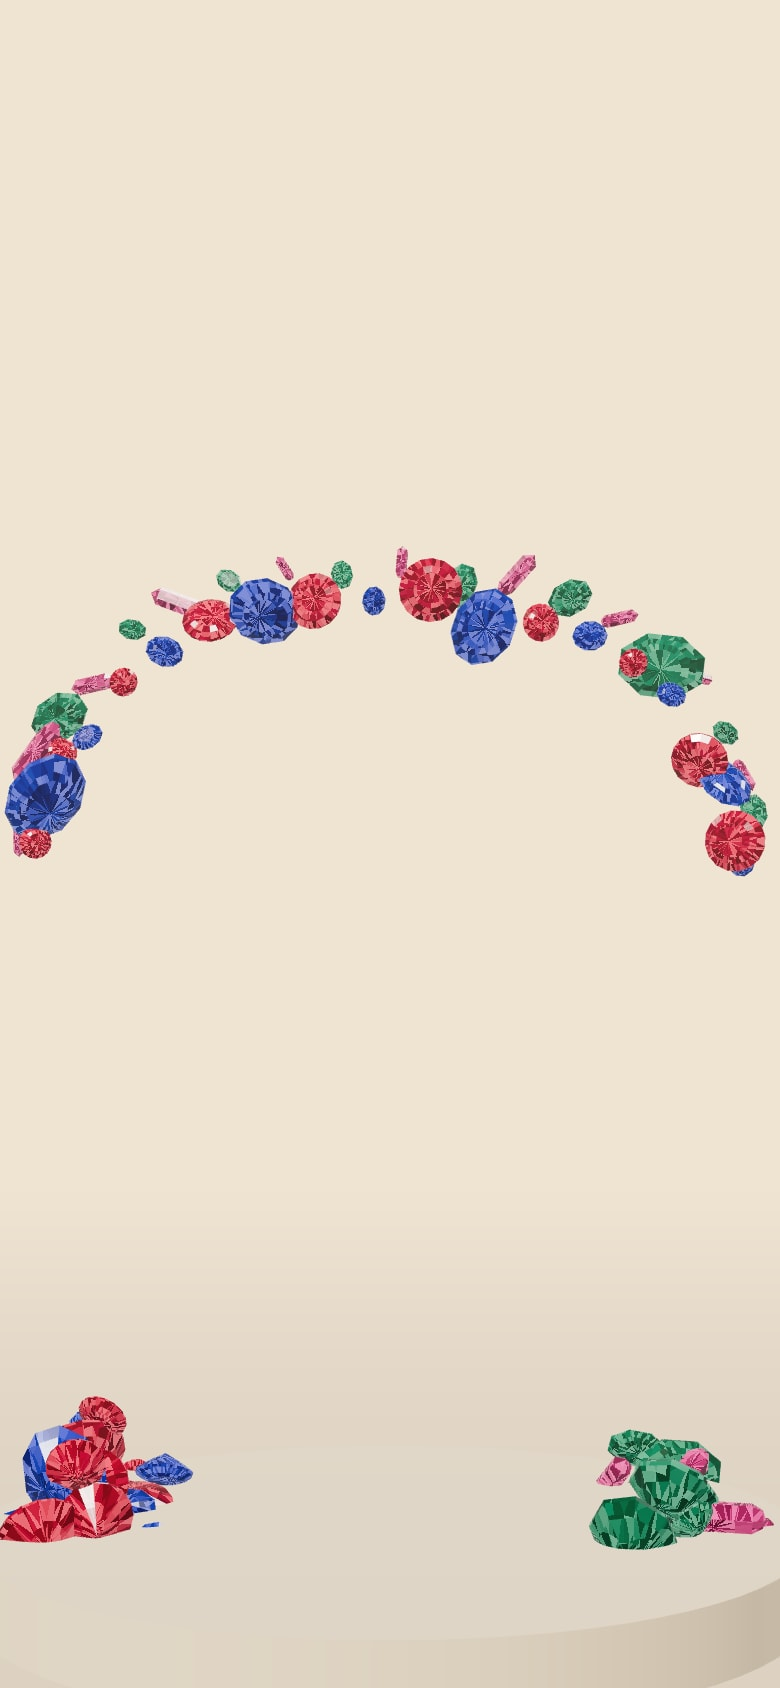
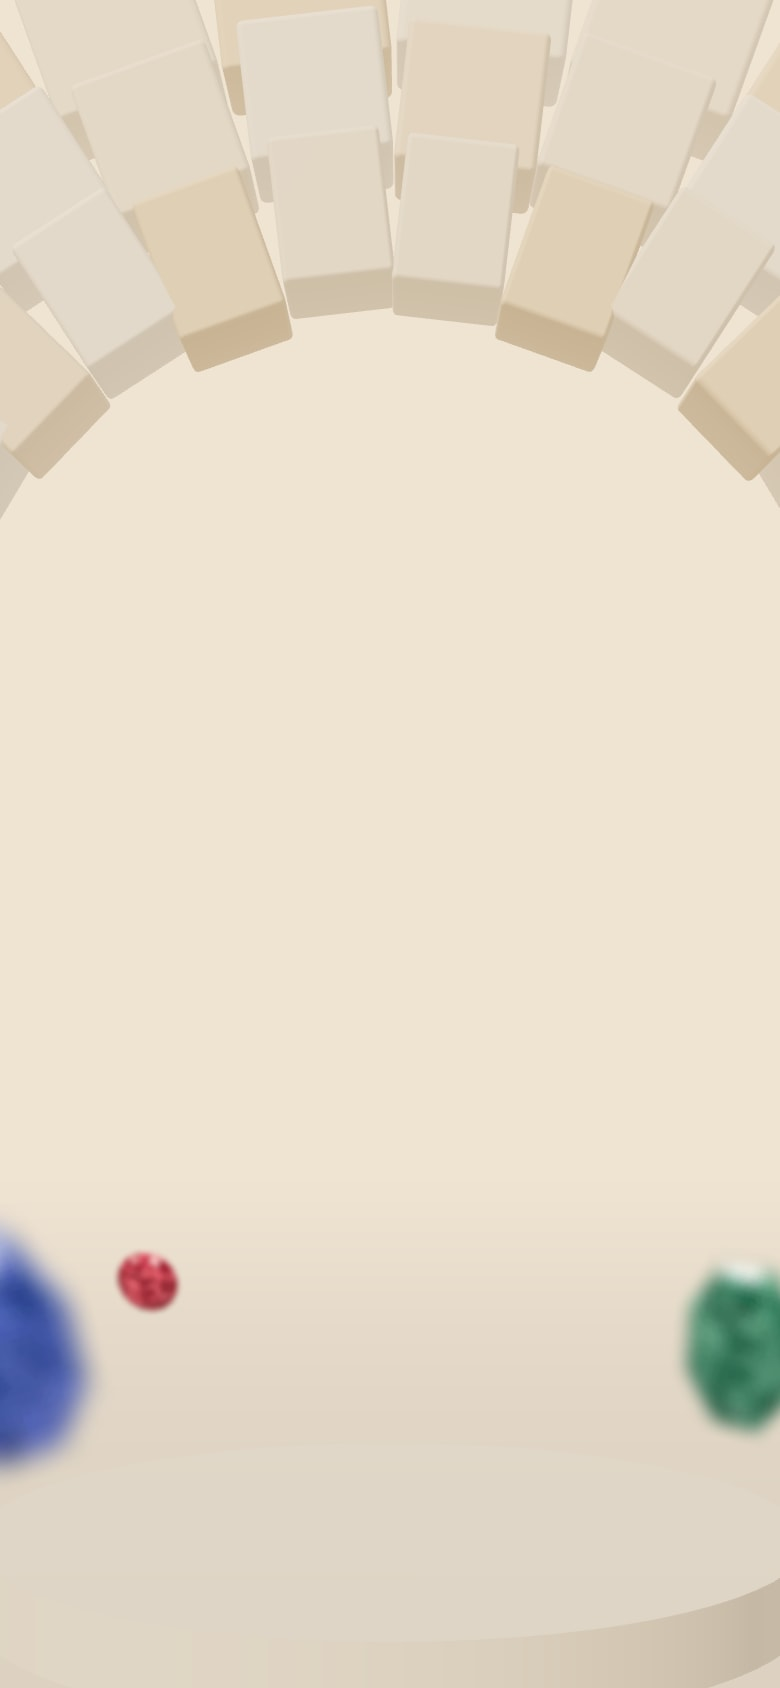
abertura: blocos de volta, com poucas pedras desfocadas
As pedras são imagens já desfocadas nos cantos de cada parada e mudam
com o tamanho escolhido.

diff --git a/abertura.js b/abertura.js
@@ -1,5 +1,5 @@
 // Mundo 3D: um palco fixo atrás da abertura, do manifesto e da coleção. A rolagem leva a câmera de parada em parada e os
-// pedras (Safira, Esmeralda, Rubi, Turmalina: os tamanhos da marca) se rearranjam em volta de cada modelo. Só Three.js: quatro InstancedMesh, fotos recortadas em planos e poeira.
+// blocos se rearranjam em volta de cada modelo. Só Three.js: um InstancedMesh, fotos recortadas em planos e poeira.
 // Sem WebGL, aparelho fraco, economia de dados ou movimento reduzido: fica a página estática (sem a classe cena-3d).
 const raiz = document.documentElement;
 const mundo = document.querySelector('.mundo'), secao = document.getElementById('abertura');
@@ -18,7 +18,7 @@ const mistura = (a, b, k) => a + (b - a) * k;
 
 async function cena() {
   const fraco = matchMedia('(max-width: 820px), (pointer: coarse)').matches;
-  const [THREE, { RoomEnvironment }] = await Promise.all([import('three'), import('three/addons/environments/RoomEnvironment.js'),
+  const [THREE, { RoundedBoxGeometry }] = await Promise.all([import('three'), import('three/addons/geometries/RoundedBoxGeometry.js'),
     document.fonts.load(`600 200px ${FONTE}`, 'NÃO')]);
   const canvas = mundo.querySelector('canvas'), claro = mundo.querySelector('.abertura__claro'), pe = secao.querySelector('.abertura__pe');
   const renderer = new THREE.WebGLRenderer({ canvas, antialias: true });
@@ -41,8 +41,6 @@ async function cena() {
   // chão liso que some na névoa
   const chao = new THREE.Mesh(new THREE.PlaneGeometry(60, 110).rotateX(-Math.PI / 2), new THREE.MeshStandardMaterial({ color: '#ecdcc6', roughness: 1 }));
   chao.position.z = -35; chao.receiveShadow = true; scene.add(chao);
-
-  let emPe = false;
 
   /* ---------- paradas: modelo + pódio ---------- */
   const ALT = 3, PISO = .22;
@@ -71,47 +69,14 @@ async function cena() {
     }).catch(() => {});
   }
 
-  /* ---------- pedras: uma lapidação por tamanho, 78 no total, uma forma por parada ---------- */
-  const N = 78, TIPOS = ['Safira', 'Esmeralda', 'Rubi', 'Turmalina'];
-  const CORES = ['#0f2f86', '#06583c', '#8c0a22', '#8e2c56'].map(c => new THREE.Color(c));
-  // torno facetado: [raio, altura] de baixo para cima; depois encaixa na caixa de lado 1 com a mesa virada para a câmera
-  const lapidar = (perfil, lados, ex = 1, deitar = true) => {
-    const g = new THREE.LatheGeometry(perfil.map(p => new THREE.Vector2(...p)), lados).rotateY(Math.PI / lados);
-    g.scale(ex, 1, 1); if (deitar) g.rotateX(Math.PI / 2);
-    g.computeBoundingBox(); const t = g.boundingBox.getSize(new THREE.Vector3()), m = Math.max(t.x, t.y, t.z);
-    return g.center().scale(1 / m, 1 / m, 1 / m);
-  };
-  const cortes = [
-    lapidar([[0, -.55], [.45, -.28], [.82, -.02], [1, .12], [.95, .2], [.72, .36], [.55, .42], [0, .42]], 10, .78), // oval
-    lapidar([[0, -.4], [.4, -.36], [.78, -.12], [1, .08], [1, .16], [.84, .28], [.68, .36], [0, .36]], 8, .74),     // degraus, oito lados
-    lapidar([[0, -.78], [.55, -.36], [1, 0], [1, .07], [.78, .26], [.56, .36], [0, .36]], 16),                     // redonda
-    lapidar([[0, -1.5], [.5, -1.05], [.5, 1.05], [.3, 1.4], [0, 1.5]], 6, 1, false),                               // prisma bruto
-  ];
-  const pm = new THREE.PMREMGenerator(renderer), ambiente = pm.fromScene(new RoomEnvironment(), .03).texture; pm.dispose();
-  const gema = new THREE.MeshStandardMaterial({ roughness: .1, metalness: 0, flatShading: true, envMap: ambiente, envMapIntensity: .8 });
-  // refração de mentira: o raio dobrado desloca um desenho de estrela (o fundo da lapidação visto por dentro)
-  gema.onBeforeCompile = s => {
-    s.vertexShader = 'varying vec3 vLocal;\n' + s.vertexShader.replace('#include <begin_vertex>', '#include <begin_vertex>\n vLocal = position;');
-    s.fragmentShader = 'varying vec3 vLocal;\n' + s.fragmentShader.replace('#include <emissivemap_fragment>', `#include <emissivemap_fragment>
-    { vec3 olho = normalize(vViewPosition), d = refract(-olho, normal, .45);
-      vec2 p = vLocal.xy + d.xy*.32 + vec2(.001); float raio = length(p)*4.2, anelN = floor(raio);
-      float setor = atan(p.y, p.x)*2.5465 + anelN*.5;                 // 16 fatias, cada anel meia fatia adiante
-      float bico = abs(fract(setor) - .5)*2., dente = step(bico, fract(raio));
-      float acaso = fract(sin(floor(setor)*12.9 + anelN*78.2 + dente*37.7)*437.5);
-      float f = .25 + .75*abs(sin(acaso*6.28 + dot(d, vec3(6., 9., 4.))));
-      float borda = pow(1. - abs(dot(normal, olho)), 3.);
-      totalEmissiveRadiance += diffuseColor.rgb*(.08 + 1.7*f*f*f) + mix(diffuseColor.rgb, vec3(1.), .5)*(.22*pow(f, 8.) + .22*borda);
-      diffuseColor.rgb *= .25 + .35*f; }`);
-  };
-  const malhas = cortes.map((g, k) => {
-    const m = new THREE.InstancedMesh(g, gema, Math.ceil((N - k) / 4));
-    m.castShadow = true; m.frustumCulled = false; scene.add(m); return m;
-  });
+  /* ---------- blocos: 78 peças, uma forma por parada ---------- */
+  const N = 78, blocos = new THREE.InstancedMesh(new RoundedBoxGeometry(1, 1, 1, 2, .05), new THREE.MeshStandardMaterial({ color: '#ffffff', roughness: .82 }), N);
+  blocos.castShadow = blocos.receiveShadow = true; blocos.frustumCulled = false;
+  scene.add(blocos);
   let semente = 7; const acaso = () => (semente = (semente * 16807) % 2147483647) / 2147483647;
   const sorte = Array.from({ length: N }, () => ({ a: acaso(), b: acaso(), c: acaso(), d: acaso() }));
-  const corAtual = sorte.map((s, i) => CORES[i % 4].clone());
-  const fichas = [...colecao.querySelectorAll('.peca select')], escolhida = [null, null, null, null];
-  fichas.forEach((f, k) => f.addEventListener('change', () => { escolhida[k] = TIPOS.indexOf(f.value); }));
+  const tons = ['#f4e6d0', '#eddabf', '#e6cfae', '#f7eddd'].map(c => new THREE.Color(c));
+  sorte.forEach((s, i) => blocos.setColorAt(i, tons[Math.floor(s.d * 4)]));
   // cada forma devolve posição, giro (z) e tamanho do bloco i, com a parada na origem
   const anel = (i, n, r, y, de, ate, larg, prof, z = -.75) => { const a = mistura(de, ate, n > 1 ? i / (n - 1) : 0); return { x: Math.cos(a) * r, y: y + Math.sin(a) * r, z, g: a, s: [larg, Math.abs(ate - de) * r / Math.max(1, n - 1) * .94, prof] }; };
   const arco = i => { // três arcos encaixados, um atrás do outro
@@ -128,21 +93,11 @@ async function cena() {
     return { x: mistura(-L, L, (j - 28) / 10), y: T + .1, z, g: 0, s: [L / 5 * .94, .42, .5] };
   };
   const escada = i => { const a = i / N * Math.PI * 3.4 - .4, r = 1.75; return { x: Math.cos(a) * r, y: .1 + i / N * 4.3, z: -.6 + Math.sin(a) * r * .6 - .9, g: 0, s: [.62, .2, .62], gy: -a }; };
-  // manifesto: metade no alto, metade pousada no chão, para não passar atrás do texto
-  const solto = i => { const s = sorte[i], chao = i % 5 < 2; return { x: chao ? 1.5 + s.a * 6 : (s.a - .5) * 13, y: chao ? .16 : 4.4 + s.c * 1.9, z: (chao ? -6.5 : -3) - s.d * 5, g: s.a * 6, gx: s.b * 5, s: Array(3).fill(.26 + s.b * .34) }; };
-  // abertura: guirlanda por cima da frase e montes no chão dos dois lados
-  const coroa = i => {
-    const s = sorte[i], b = emPe ? .36 : 1;
-    if (i < 40) { const a = Math.PI * (i / 39), k = i % 2; return { x: Math.cos(a) * (emPe ? 1.25 : 3.5) * (1 + k * .09), y: (emPe ? 2.2 : 2.75) + Math.sin(a) * (emPe ? .95 : .62) + k * .16, z: -1.5 - k * .5, g: a * 2, gx: s.b - .5, s: Array(3).fill((emPe ? .1 : .14) + s.c * s.c * (emPe ? .24 : .4)) }; }
-    const l = i % 2 ? 1 : -1, u = s.a; return { x: l * (emPe ? .62 + u * .5 : 1.75 + u * 1.9), y: .12 + (1 - Math.abs(u - .5) * 2) * s.b * .42, z: -.9 + s.c * 1.1, g: s.d * 6, gx: s.c * 4, s: Array(3).fill((.2 + s.d * .26) * (emPe ? .7 : 1)) };
-  };
+  const solto = i => { const s = sorte[i]; return { x: (s.a < .5 ? -1 : 1) * (.8 + s.b * 6), y: .3 + s.c * 5.5, z: -2.5 - s.d * 9, g: s.a * 6, gx: s.b * 5, s: [.2 + s.c * .42, .2 + s.a * .42, .2 + s.b * .42] }; };
+  const fundo = i => { const p = arco(i); return { ...p, x: p.x * 1.25, y: p.y * 1.1, z: p.z - 2.4, s: p.s.map(v => v * 1.2) }; }; // na abertura o arco fica atrás da frase
   const justo = i => { const p = arco(i); return { ...p, x: p.x * .68, s: [p.s[0] * .68, p.s[1], p.s[2]] }; };
-  const formas = [coroa, solto, portal, roda, justo, escada, solto];
-  let prontos = [];
-  const formar = () => { prontos = formas.map((f, k) => Array.from({ length: N }, (_, i) => { // pedra não estica: vira o tamanho médio
-    const p = f(i), c = k > 1 && k < 6, o = sorte[(i * 7 + k * 13) % N]; // nas paradas: tamanhos e posições desiguais, como joia e não como colar de contas
-    const m = Math.cbrt(p.s[0] * p.s[1] * p.s[2]) * (c ? .5 + 1.05 * o.a * o.a : 1);
-    return c ? { ...p, x: p.x + (o.b - .5) * .34, y: p.y + (o.c - .5) * .3, z: p.z + (o.d - .5) * .9, g: p.g + o.a * 6, gx: (o.b - .5) * 1.8, gy: (o.c - .5) * 1.8, m } : { ...p, m }; })); };
+  const formas = [fundo, solto, portal, roda, justo, escada, solto];
+  const prontos = formas.map((f, k) => Array.from({ length: N }, (_, i) => f(i)));
   const salto = new Float32Array(N), V = new THREE.Vector3(), ponteiro = { x: 9, y: 9 };
   const M = new THREE.Matrix4(), Q = new THREE.Quaternion(), E = new THREE.Euler(), P = new THREE.Vector3(), S = new THREE.Vector3();
   const lugar = (k, i) => prontos[k][i];
@@ -150,15 +105,14 @@ async function cena() {
     const k = Math.min(5, Math.floor(s)), f = s - k;
     const A = paradas[k], zB = k < 5 ? paradas[k + 1].z : -6 * PASSO, xB = k < 5 ? paradas[k + 1].x : 0;
     for (let i = 0; i < N; i++) {
-      const r = sorte[i], q = macio(entre(.08 + r.c * .28, .62 + r.c * .3, f)); // cada pedra sai na sua hora
+      const r = sorte[i], q = macio(entre(.08 + r.c * .28, .62 + r.c * .3, f)); // cada bloco sai na sua hora
       const a = lugar(k, i), b = lugar(k + 1, i), alto = Math.sin(q * Math.PI);
       const vivo = (k === 1 && q < 1) || (k === 0 && q > 0) || k + 1 === 1 ? 1 : .12; // solto balança mais
       P.set(mistura(a.x + A.x, b.x + xB, q) + (r.a - .5) * 5 * alto + (r.a < .5 ? -1.6 : 1.6) * alto,
         mistura(a.y, b.y, q) + (r.b - .3) * 1.8 * alto + Math.sin(t * .6 + r.d * 9) * .05 * vivo,
         mistura(a.z + A.z, b.z + zB, q));
       E.set(mistura(a.gx || 0, b.gx || 0, q) + alto * (r.b - .5) * 3, mistura(a.gy || 0, b.gy || 0, q) + alto * (r.c - .5) * 3, mistura(a.g, b.g, q));
-      E.y += Math.sin(t * .5 + r.d * 12) * .35; E.x += Math.cos(t * .4 + r.a * 12) * .22; // gira de leve para as facetas brilharem
-      S.setScalar(mistura(a.m, b.m, q));
+      S.set(mistura(a.s[0], b.s[0], q), mistura(a.s[1], b.s[1], q), mistura(a.s[2], b.s[2], q));
       if (ponteiro.x < 2) {
         V.copy(P).project(camera);
         const dist = Math.hypot((V.x - ponteiro.x) * camera.aspect, V.y - ponteiro.y);
@@ -166,11 +120,40 @@ async function cena() {
         P.z += salto[i] * .5; E.z += salto[i] * (r.a - .5) * .5; E.y += salto[i] * (r.b - .5) * .6;
       }
       if (P.y < S.y * .5) P.y = S.y * .5;
-      const tipo = i % 4, j = (i - tipo) / 4, malha = malhas[tipo], n = Math.round(s) - 2, esc = escolhida[n] ?? (n >= 0 && n < 4 ? n : null);
-      malha.setMatrixAt(j, M.compose(P, Q.setFromEuler(E), S));
-      malha.setColorAt(j, corAtual[i].lerp(CORES[esc ?? tipo], .08)); // uma pedra por parada; escolheu o tamanho, vira a dele
+      blocos.setMatrixAt(i, M.compose(P, Q.setFromEuler(E), S));
     }
-    malhas.forEach(m => { m.instanceMatrix.needsUpdate = m.instanceColor.needsUpdate = true; });
+    blocos.instanceMatrix.needsUpdate = true;
+  }
+
+  /* ---------- pedras: os tamanhos da marca, poucas e desfocadas (imagem já desfocada, sem custo de efeito) ---------- */
+  const TIPOS = ['Safira', 'Esmeralda', 'Rubi', 'Turmalina'];
+  const pedraTex = await Promise.all(TIPOS.map(n => carregar.loadAsync(`img/pedra-${n.toLowerCase()}.webp`)));
+  pedraTex.forEach(t => { t.colorSpace = THREE.SRGBColorSpace; });
+  // por parada: [lado, altura (-1 a 1 da tela), distância da câmera, tamanho, tipo]
+  const PEDRAS = [
+    [[-1, -.5, 3, .48, 0], [1.02, .5, 3.2, .42, 2], [.94, -.62, 5.2, .5, 1], [-.9, .62, 5.6, .44, 3], [-.62, -.5, 9.5, .34, 2]],
+    [[.96, .7, 3, .5, 1], [.8, -.72, 3.4, .56, 0], [-.95, -.8, 4.2, .4, 2], [.55, -.6, 8, .4, 3]],
+    ...[0, 1, 2, 3].map(k => { const l = k % 2 ? 1 : -1; return [[l * .97, -.6, 3, .52], [l * .9, .74, 3.4, .44], [l * .1, -.72, 4, .3], [-l * .92, -.84, 3.4, .42], [-l * .86, .74, 9, .5]].map(p => [...p, k]); }),
+  ];
+  const pedras = PEDRAS.flatMap((lista, k) => lista.map(([lado, alt, dist, tam, tipo], j) => {
+    const m = new THREE.Sprite(new THREE.SpriteMaterial({ map: pedraTex[tipo], transparent: true, depthWrite: false, depthTest: dist > 6, toneMapped: false, fog: false }));
+    m.userData = { k, lado, alt, dist, tam, tipo, fase: k * 2.1 + j * 1.7 }; m.renderOrder = dist > 6 ? 1 : 6; scene.add(m); return m;
+  }));
+  const escolhida = [null, null, null, null];
+  colecao.querySelectorAll('.peca select').forEach((f, n) => f.addEventListener('change', () => { // escolheu o tamanho: as pedras da parada viram a dele
+    escolhida[n] = TIPOS.indexOf(f.value);
+    pedras.forEach(p => { if (p.userData.k === n + 2) p.material.map = pedraTex[escolhida[n]]; });
+  }));
+  function flutuar(s, t) {
+    const tan = Math.tan(camera.fov * Math.PI / 360);
+    pedras.forEach(p => {
+      const u = p.userData, d = u.k ? quadro.dp : quadro.d, y = u.k === 1 && emPe ? 1.8 : u.k ? quadro.yp : quadro.y, meia = u.dist * tan;
+      p.visible = Math.abs(s - u.k) < .9 && !(emPe && (u.k > 1 ? u.alt < 0 : !u.k && u.alt > 0)); if (!p.visible) return; // em pé: nem sobre a ficha (embaixo) nem sobre a frase (em cima)
+      p.position.set(u.lado * meia * camera.aspect, y + u.alt * meia + Math.sin(t * .5 + u.fase) * .05, -u.k * PASSO + d - u.dist);
+      p.material.rotation = Math.sin(t * .22 + u.fase) * .35;
+      p.material.opacity = .92 * entre(.7, 2, camera.position.z - p.position.z) * (1 - entre(.55, .9, Math.abs(s - u.k)));
+      p.scale.setScalar(u.tam * 1.5 * (emPe ? .62 : 1));
+    });
   }
 
   /* ---------- poeira ---------- */
@@ -199,14 +182,13 @@ async function cena() {
     m.position.set(x, y, -.3); m.userData = { x, lado }; m.renderOrder = 1; letras.add(m); palavras.push(m);
   }
   const quadro = { d: 7, y: 1.8, dp: 7, yp: 1.8 };
-  let centros = [];
+  let emPe = false, centros = [];
   function medir() {
     const w = canvas.clientWidth, h = canvas.clientHeight; if (!w || !h) return;
     renderer.setPixelRatio(dpr); renderer.setSize(w, h, false); poeiraMat.uniforms.px.value = dpr * h / 900;
     camera.aspect = w / h; camera.updateProjectionMatrix();
     palavras.forEach(p => { p.material.map.dispose(); p.material.dispose(); p.geometry.dispose(); }); letras.clear(); palavras = [];
     emPe = camera.aspect < 1;
-    formar();
     const tan = Math.tan(camera.fov * Math.PI / 360), av = emPe ? Math.max(5.1, 2 / camera.aspect) : 4;
     quadro.d = av / 2 / tan; quadro.y = emPe ? PISO + ALT * .69 : PISO + ALT * .5;
     const avp = emPe ? Math.max(6.2, 2.6 / camera.aspect) : 4.5;
@@ -249,7 +231,7 @@ async function cena() {
     camera.position.set(passeio + olhar.x * .6 + Math.sin(t * .25) * .05, y - olhar.y * .25 + Math.sin(t * .2) * .03, z);
     camera.lookAt(passeio * .4 + olhar.x * .15, y, z - d);
     sol.position.set(-4.5, 7, z - d + 6); sol.target.position.set(0, 1, z - d);
-    arranjar(s, t);
+    arranjar(s, t); flutuar(s, t);
     paradas.forEach((p, i) => {
       if (p.nome && !p.pedida && Math.abs(s - i) < 1.6) montar(p);
       if (!p.grupo) return;
@@ -294,7 +276,7 @@ async function cena() {
     posicionar(ms, dt);
     renderer.render(scene, camera);
   });
-  window._abertura = { renderer, scene, camera, paradas, letras, poeira }; // pra testar
+  window._abertura = { renderer, scene, camera, paradas, letras, poeira, pedras }; // pra testar
 }
 
 if (raiz.classList.contains('cena-3d')) cena().catch(e => { console.warn('mundo: página estática', e); semCena(); });

diff --git a/index.html b/index.html
@@ -43,7 +43,7 @@
 <link rel="modulepreload" href="assets/moments/lib.js">
 <link rel="modulepreload" href="assets/moments/photo-chapters/moment.js">
 <link rel="stylesheet" href="medicao.css?v=1">
-<link rel="stylesheet" href="abertura.css?v=3">
+<link rel="stylesheet" href="abertura.css?v=4">
 <link rel="preload" as="image" href="img/modelo-hero.webp">
 <script>
 /* cena 3D só em aparelho que aguenta; senão fica a composição estática */
@@ -441,7 +441,7 @@ dialog.sacola:not([open]) { transform: translateX(100%); opacity: 1; }
 
 <script src="loja.js?v=10"></script>
 <script type="module" src="provador.js?v=8"></script>
-<script type="module" src="abertura.js?v=3"></script>
+<script type="module" src="abertura.js?v=4"></script>
 <script type="module" src="assets/system.js"></script>
 <script type="module" src="assets/motion/motion.js"></script>
 <script type="module" src="assets/layout/layout.js"></script>

diff --git a/CONTEXTO.md b/CONTEXTO.md
@@ -20,7 +20,7 @@ Landing page de calças para mulheres até 1,55m. HTML/CSS/JS puro, sem build.
 - Calibração (2026-11-20): `calibrar.html` (sem link no site, noindex) — mede a pessoa com fita e com a câmera, guarda os pares em `localStorage.calibracao` do aparelho, mostra erro médio antes/depois e o fator por medida (mínimos quadrados pela origem: Σfita·câmera / Σcâmera²), pronto para colar em `MED.AJUSTE`. Usa `r.bruto` (valor da câmera sem AJUSTE). Exporta CSV e compartilha. CSS da medição/diálogos foi para `medicao.css`, usado pelas duas páginas.
 - Voz na medição: `speechSynthesis` pt-BR (`falar`/`aviso` em provador.js). Só fala aviso que ficou 1 s na tela (eles piscam entre frames), repete a cada 8 s se ela não acertar; troca de fase e fim falam na hora. Botão "Voz ligada/desligada" no cabeçalho, salvo em `localStorage.vozMedicao`.
 
-- Mundo 3D (2026-11-24): `abertura.js` + `abertura.css`. Referência do usuário: igloo.inc, porém bem mais leve. Só Three.js (GSAP, cortinas e relevo saíram). `.mundo` tem um palco sticky atrás de abertura, manifesto e coleção; `emS(scrollY)` converte rolagem em parada 0..6 (0 abertura, 1 manifesto, 2-5 calças, 6 fim). 78 pedras lapidadas (Safira, Esmeralda, Rubi, Turmalina = tamanhos da marca; quatro cortes, quatro InstancedMesh; os blocos de pedra da 1ª versão saíram), uma forma por parada (`formas`), que se rearranjam entre paradas. Cada calça abre com uma pedra; mudar o tamanho no select pinta as pedras da parada (`escolhida`). Brilho = refração falsa no shader (`gema`), sem transmission; perto do ponteiro saem para a frente. Fotos recortadas em `img/modelo-*.webp` (imgly), buscadas perto da parada. As fichas de compra são o HTML normal (`.peca`), presas com sticky. Estática (movimento reduzido, sem WebGL, < 3 GB RAM, < 4 núcleos, economia de dados, 8 s sem carregar, quadro > 70 ms): fotos no lugar da cena; fundos `img/abertura.jpg`/`abertura-celular.jpg` são prints da cena sem frase e modelo, refazer se ela mudar (`window._abertura`). São div, não section: o kit prende a altura de main > section. O PC do usuário tem animações do Windows desligadas, então ele vê a estática até ligar.
+- Mundo 3D (2026-11-24): `abertura.js` + `abertura.css`. Referência do usuário: igloo.inc, porém bem mais leve. Só Three.js (GSAP, cortinas e relevo saíram). `.mundo` tem um palco sticky atrás de abertura, manifesto e coleção; `emS(scrollY)` converte rolagem em parada 0..6 (0 abertura, 1 manifesto, 2-5 calças, 6 fim). 78 blocos num InstancedMesh, uma forma por parada (`formas`), que se rearranjam entre paradas. Pedras preciosas (Safira, Esmeralda, Rubi, Turmalina = tamanhos da marca) entram poucas e desfocadas: sprites de `img/pedra-*.webp`, já desfocadas (`PEDRAS`); mudar o tamanho no select troca as da parada. Testado e recusado: pedras lapidadas no lugar dos blocos; perto do ponteiro saem para a frente. Fotos recortadas em `img/modelo-*.webp` (imgly), buscadas perto da parada. As fichas de compra são o HTML normal (`.peca`), presas com sticky. Estática (movimento reduzido, sem WebGL, < 3 GB RAM, < 4 núcleos, economia de dados, 8 s sem carregar, quadro > 70 ms): fotos no lugar da cena; fundos `img/abertura.jpg`/`abertura-celular.jpg` são prints da cena sem frase e modelo, refazer se ela mudar (`window._abertura`). São div, não section: o kit prende a altura de main > section. O PC do usuário tem animações do Windows desligadas, então ele vê a estática até ligar.
 - O conceito do cliente (cena 3D presa à rolagem) vale mais que as regras da skill tasteskill, que proíbe cena em produto; gate não se aplica à abertura.
 
 - Fitas métricas com X na abertura: testadas e removidas a pedido do usuário (2026-11-24). Não recolocar.
